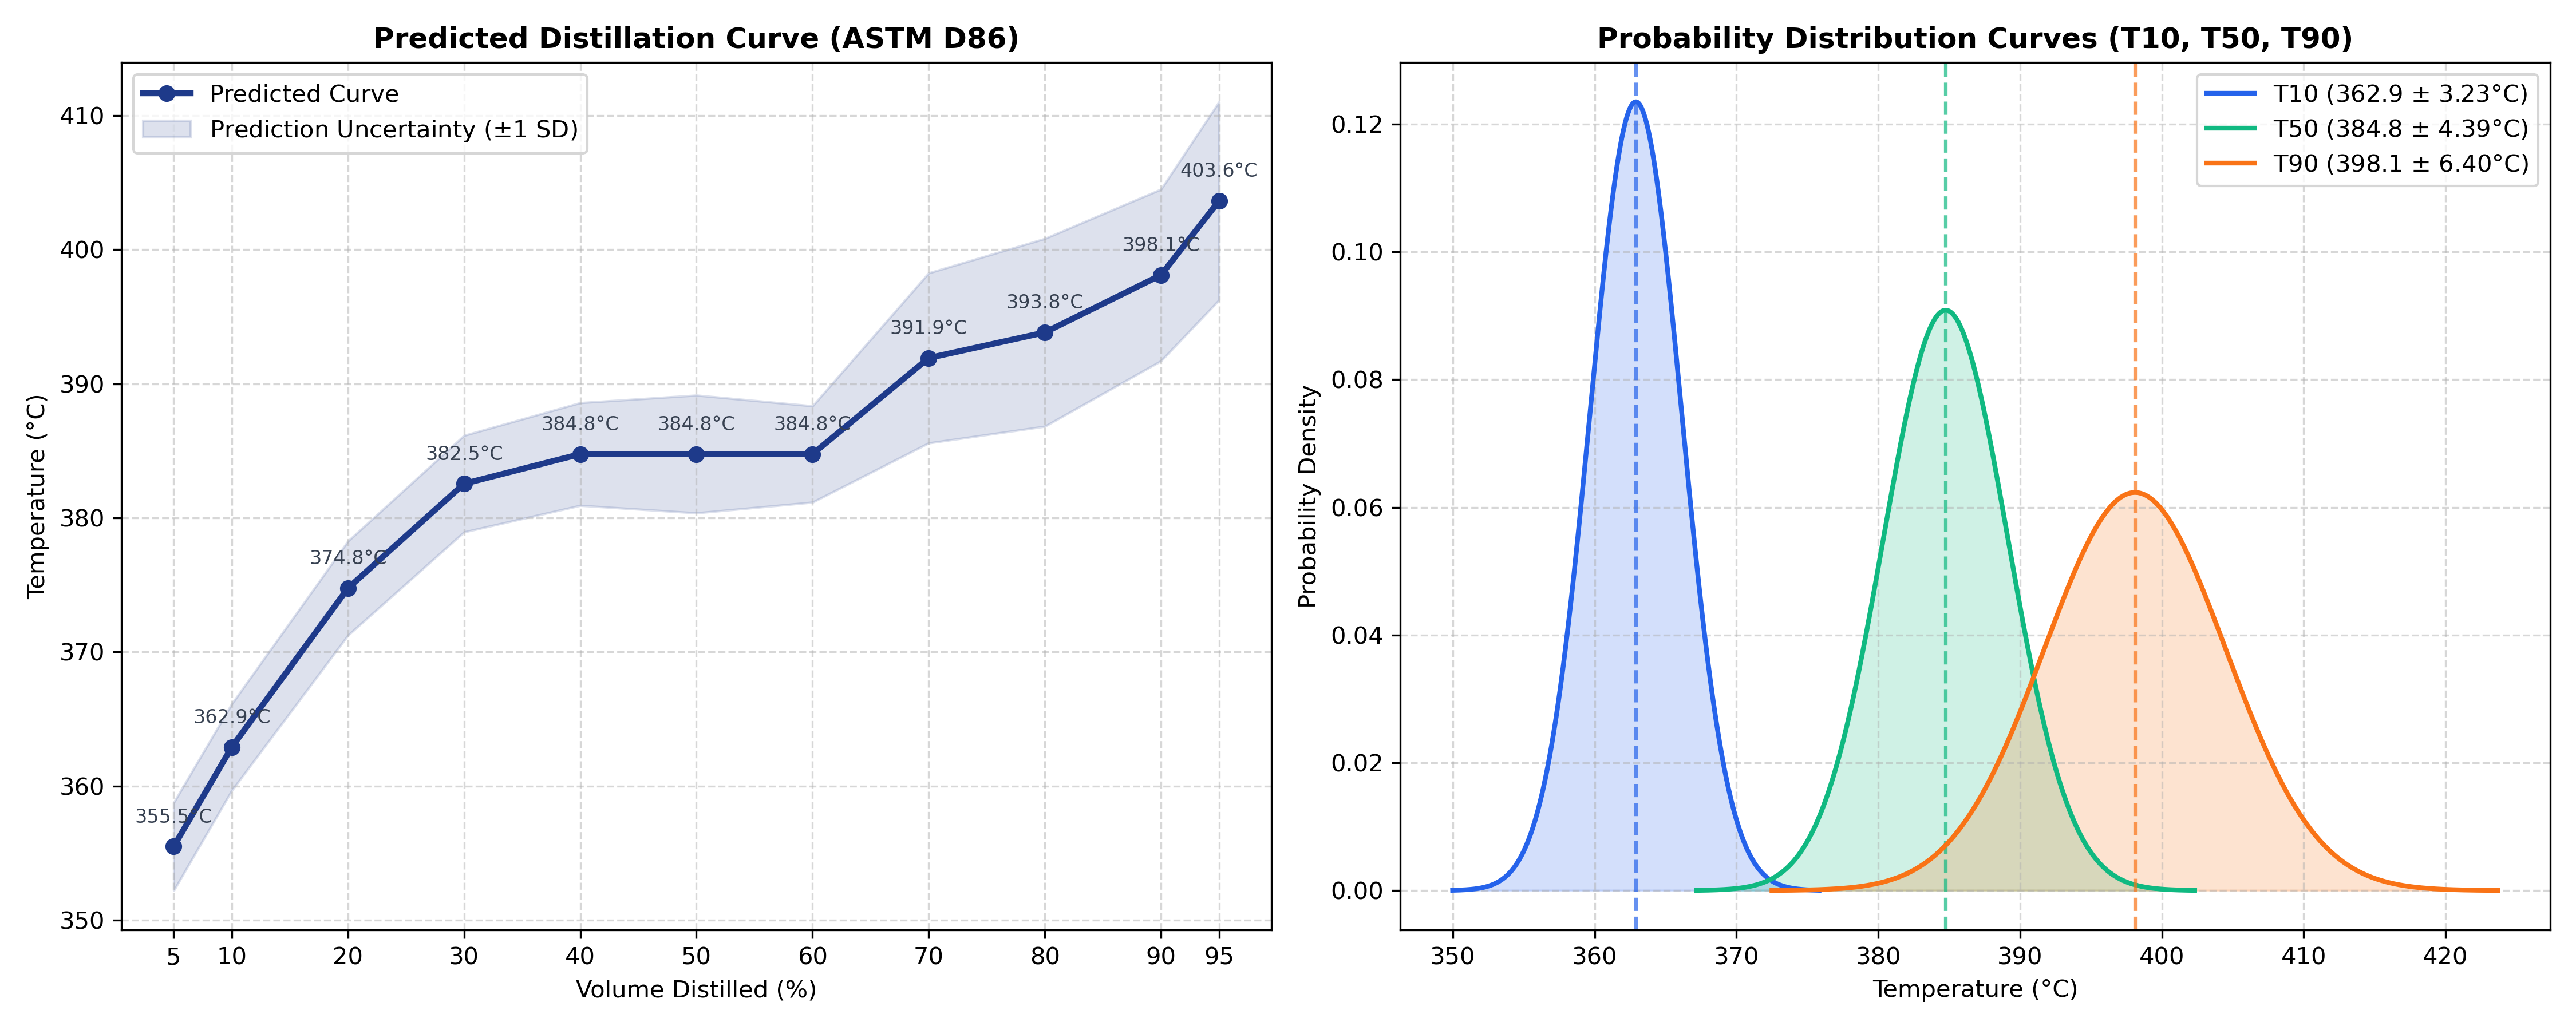
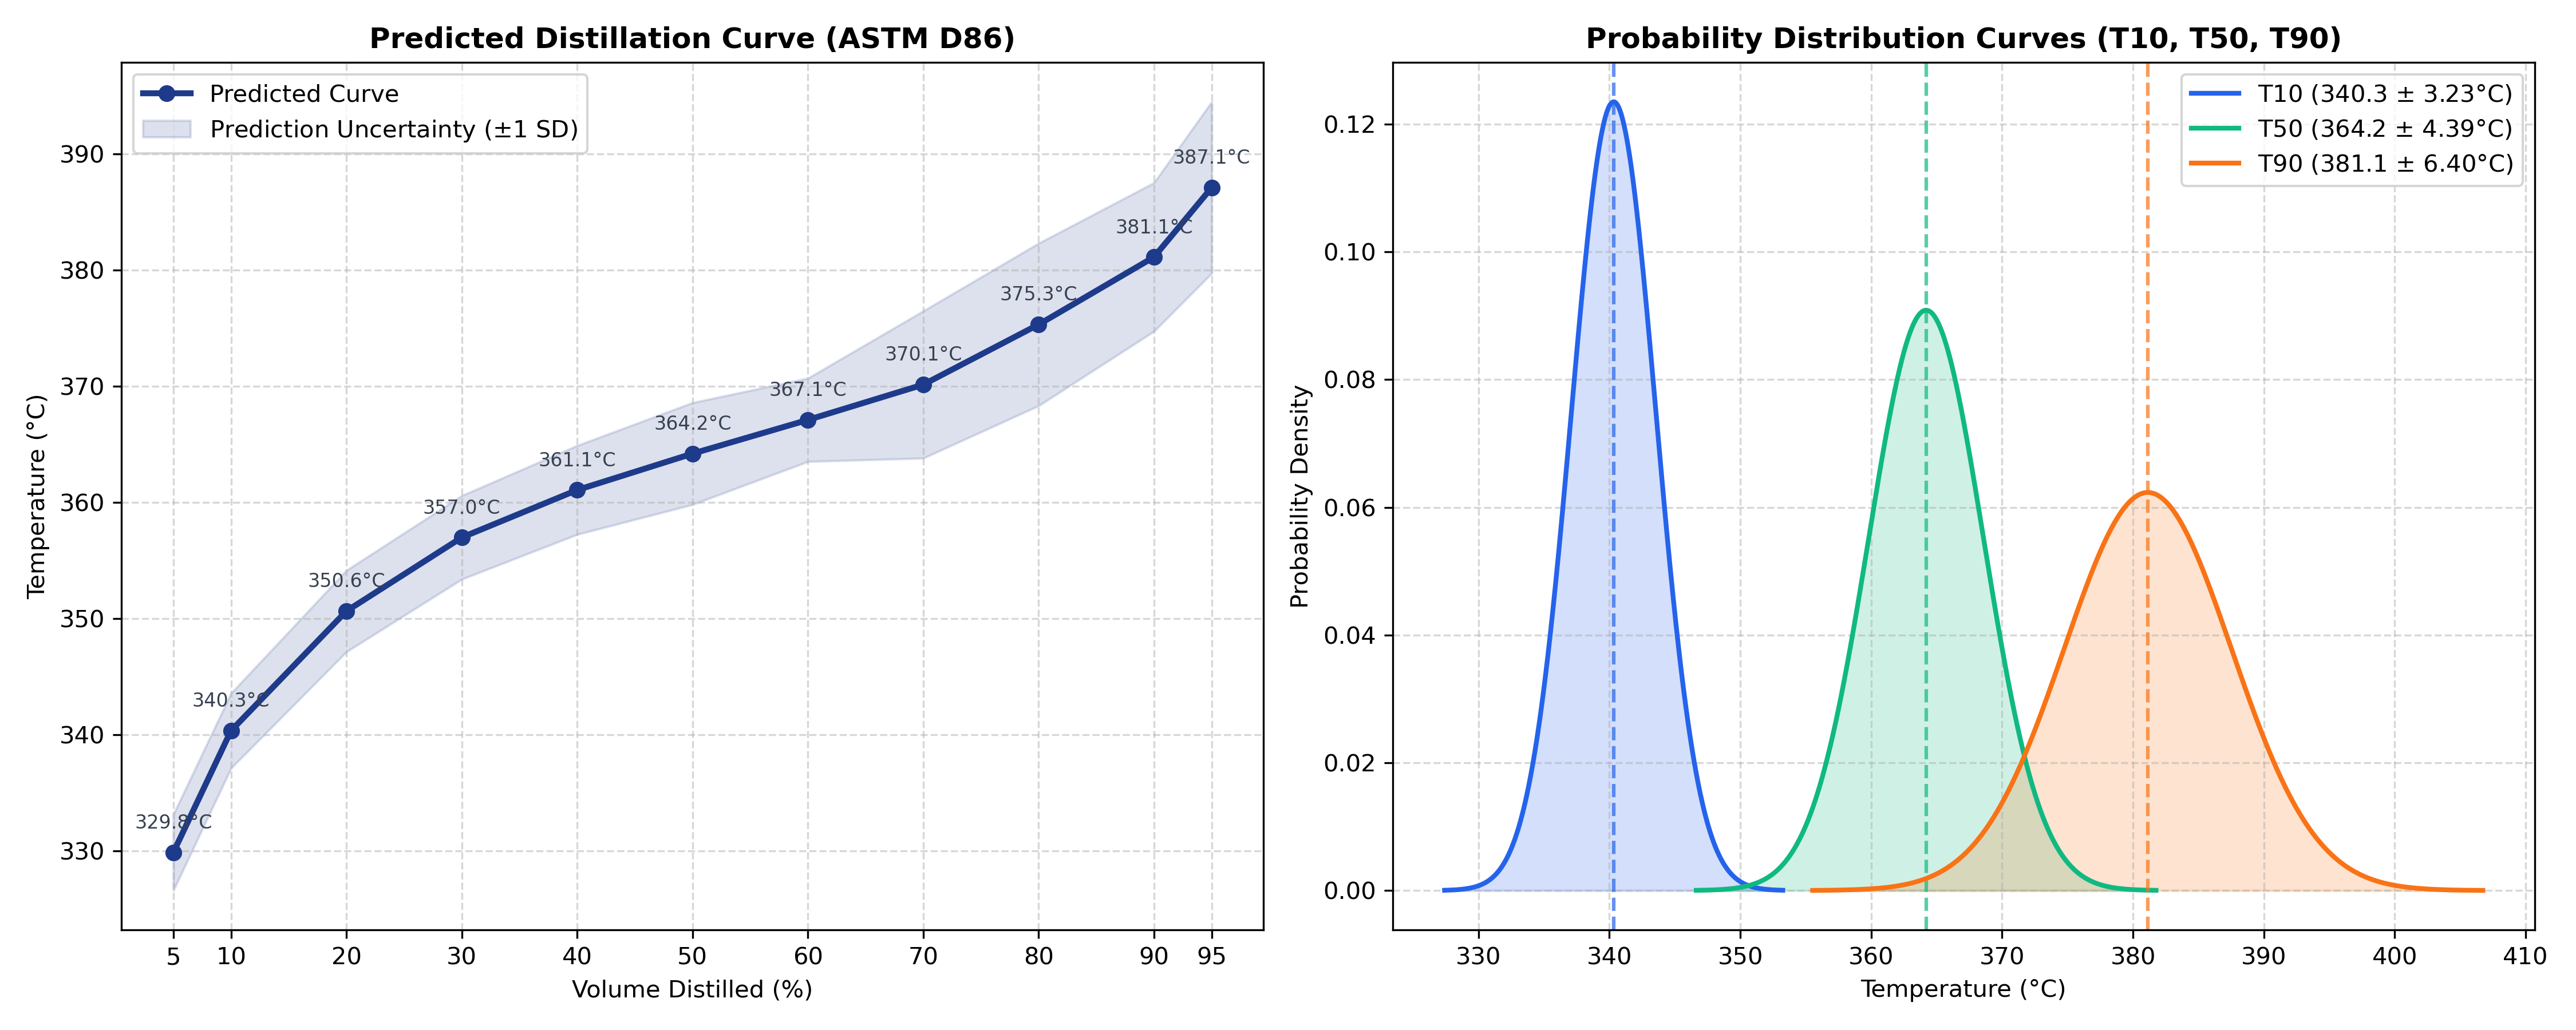
migrated to random forest

diff --git a/dist_2dgc/scripts/train_export.py b/dist_2dgc/scripts/train_export.py
@@ -5,6 +5,7 @@ import numpy as np
 import pandas as pd
 from pathlib import Path
 from sklearn.linear_model import Ridge
+from sklearn.ensemble import RandomForestRegressor
 from sklearn.pipeline import Pipeline
 from sklearn.preprocessing import StandardScaler
 from sklearn.impute import SimpleImputer
@@ -88,17 +89,13 @@ def main():
     print(f"Dataset Loaded. Samples count: {len(X_raw)}")
     print(f"X shape: {X_raw.shape}, Y_deltas shape: {Y_deltas.shape}")
     
-    # 1. Train Forward Model (Ridge regression predicting deltas on raw inputs)
-    # Alphas optimized for raw composition inputs:
-    # - Index 0 (T05 starting temperature) uses alpha=50.0 for stability against OOD scaling explosions
-    # - Indices 1-10 (deltas) use alpha=10.0 to prevent cumulative shape explosions on out-of-distribution compositions
-    alphas = np.array([50.0, 10.0, 10.0, 10.0, 10.0, 10.0, 10.0, 10.0, 10.0, 10.0, 10.0])
-    
+    # 1. Train Forward Model (Random Forest predicting deltas on raw inputs)
+    # n_estimators=100 and max_depth=15 chosen for optimal accuracy and reasonable model file size (73 MB)
     forward_model = Pipeline([
         ('imputer', SimpleImputer(strategy='constant', fill_value=0.0)),
-        ('regressor', Ridge(alpha=alphas, random_state=42))
+        ('regressor', RandomForestRegressor(n_estimators=100, max_depth=15, random_state=42, n_jobs=-1))
     ])
-    print("Training Forward Model on temperature deltas (raw inputs)...")
+    print("Training Forward Model (Random Forest) on temperature deltas (raw inputs)...")
     forward_model.fit(X_raw, Y_deltas)
     
     # 2. Train Inverse Model (Distillation Curve -> Composition)
@@ -113,11 +110,11 @@ def main():
     # --- Export to ONNX ---
     print("Converting models to ONNX...")
     
-    # Convert standard Ridge pipeline predicting deltas to ONNX
+    # Convert Random Forest pipeline predicting deltas to ONNX
     initial_type_fwd = [('float_input', FloatTensorType([None, len(feature_cols)]))]
     onx_fwd = convert_sklearn(forward_model, initial_types=initial_type_fwd)
     
-    # Inject ONNX nodes to enforce monotonicity post-regressor
+    # Inject ONNX nodes to enforce monotonicity and T05 physical lower bound post-regressor
     raw_output_name = onx_fwd.graph.output[0].name
     raw_graph = onx_fwd.graph
     
@@ -125,6 +122,10 @@ def main():
     U_matrix = np.triu(np.ones((11, 11), dtype=np.float32))
     U_tensor = numpy_helper.from_array(U_matrix, name="U_matrix")
     raw_graph.initializer.append(U_tensor)
+    
+    # Define a lower bound of 300.0 Kelvin (26.85 °C) to prevent non-physical extrapolation
+    clip_min = numpy_helper.from_array(np.array([300.0], dtype=np.float32), name="clip_min")
+    raw_graph.initializer.append(clip_min)
     
     # Slicing parameters to separate d0 from d_rest
     starts_0 = numpy_helper.from_array(np.array([0], dtype=np.int64), name="starts_0")
@@ -142,6 +143,13 @@ def main():
         outputs=['d0'],
         name='slice_d0'
     )
+    # 1.b Clip d0 to be at least 300.0 K (26.85 °C)
+    node_clip_d0 = helper.make_node(
+        'Clip',
+        inputs=['d0', 'clip_min'],
+        outputs=['d0_clipped'],
+        name='clip_d0'
+    )
     # 2. Slice d_rest (indices 1 to 10)
     node_slice_drest = helper.make_node(
         'Slice',
@@ -156,10 +164,10 @@ def main():
         outputs=['d_rest_clipped'],
         name='relu_drest'
     )
-    # 4. Concatenate d0 and d_rest_clipped
+    # 4. Concatenate d0_clipped and d_rest_clipped
     node_concat = helper.make_node(
         'Concat',
-        inputs=['d0', 'd_rest_clipped'],
+        inputs=['d0_clipped', 'd_rest_clipped'],
         outputs=['clipped_deltas'],
         axis=1,
         name='concat_deltas'
@@ -172,7 +180,7 @@ def main():
         name='matmul_U'
     )
     
-    raw_graph.node.extend([node_slice_d0, node_slice_drest, node_relu, node_concat, node_matmul])
+    raw_graph.node.extend([node_slice_d0, node_clip_d0, node_slice_drest, node_relu, node_concat, node_matmul])
     
     # Update graph output to be the monotonic_temps
     new_output = helper.make_tensor_value_info(